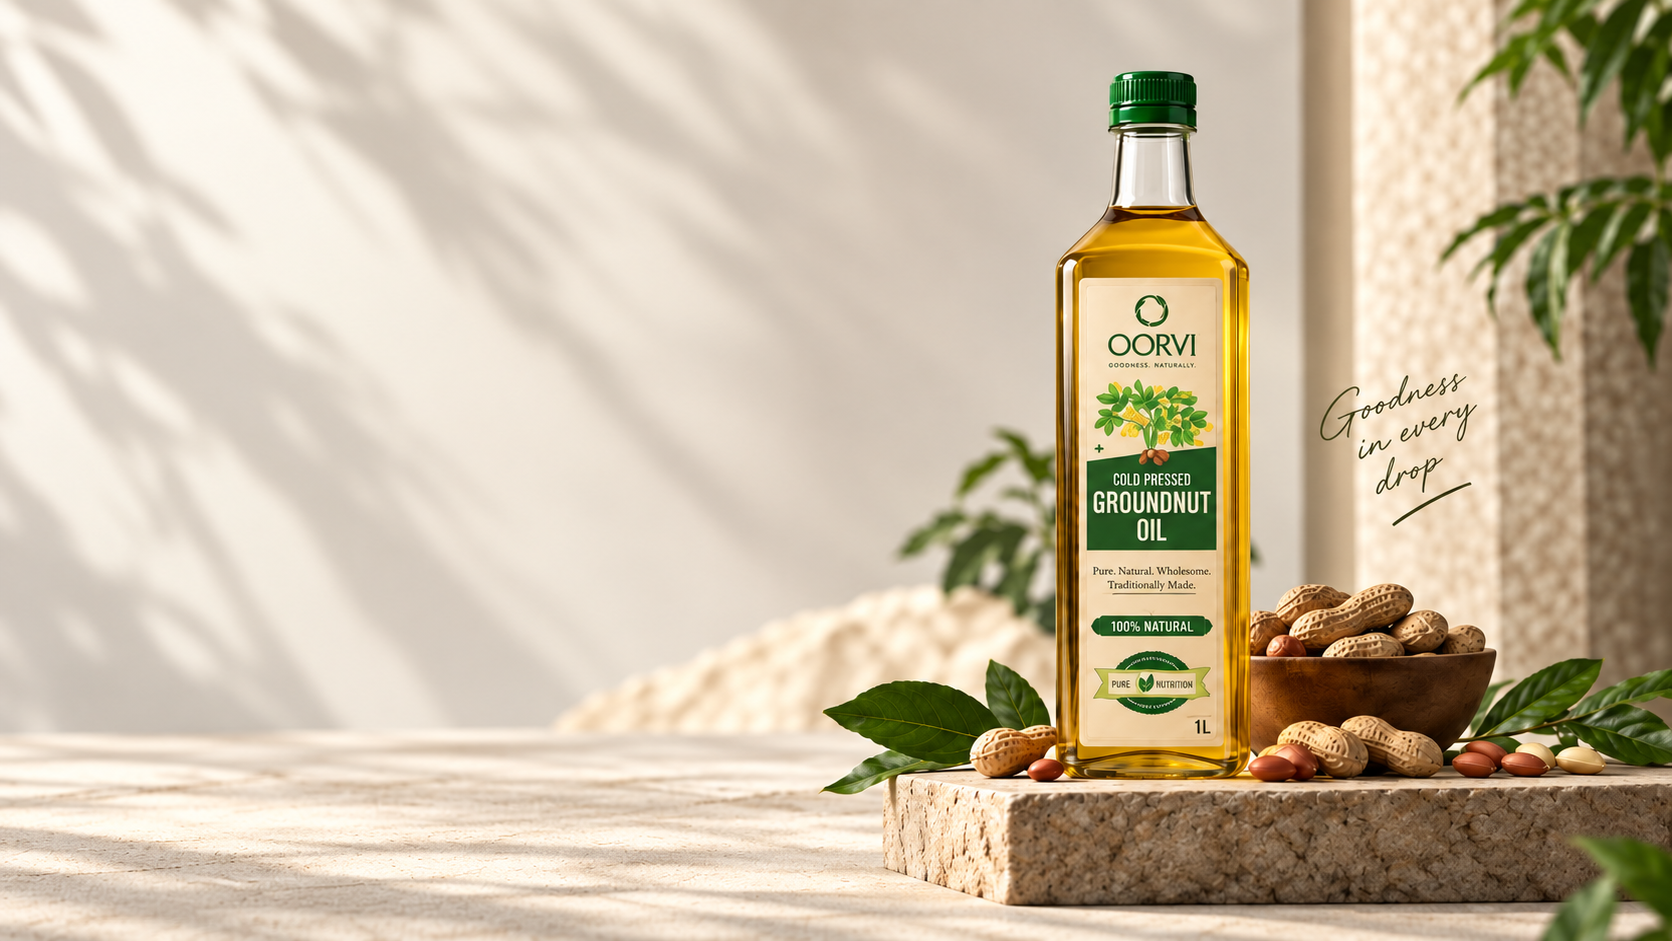
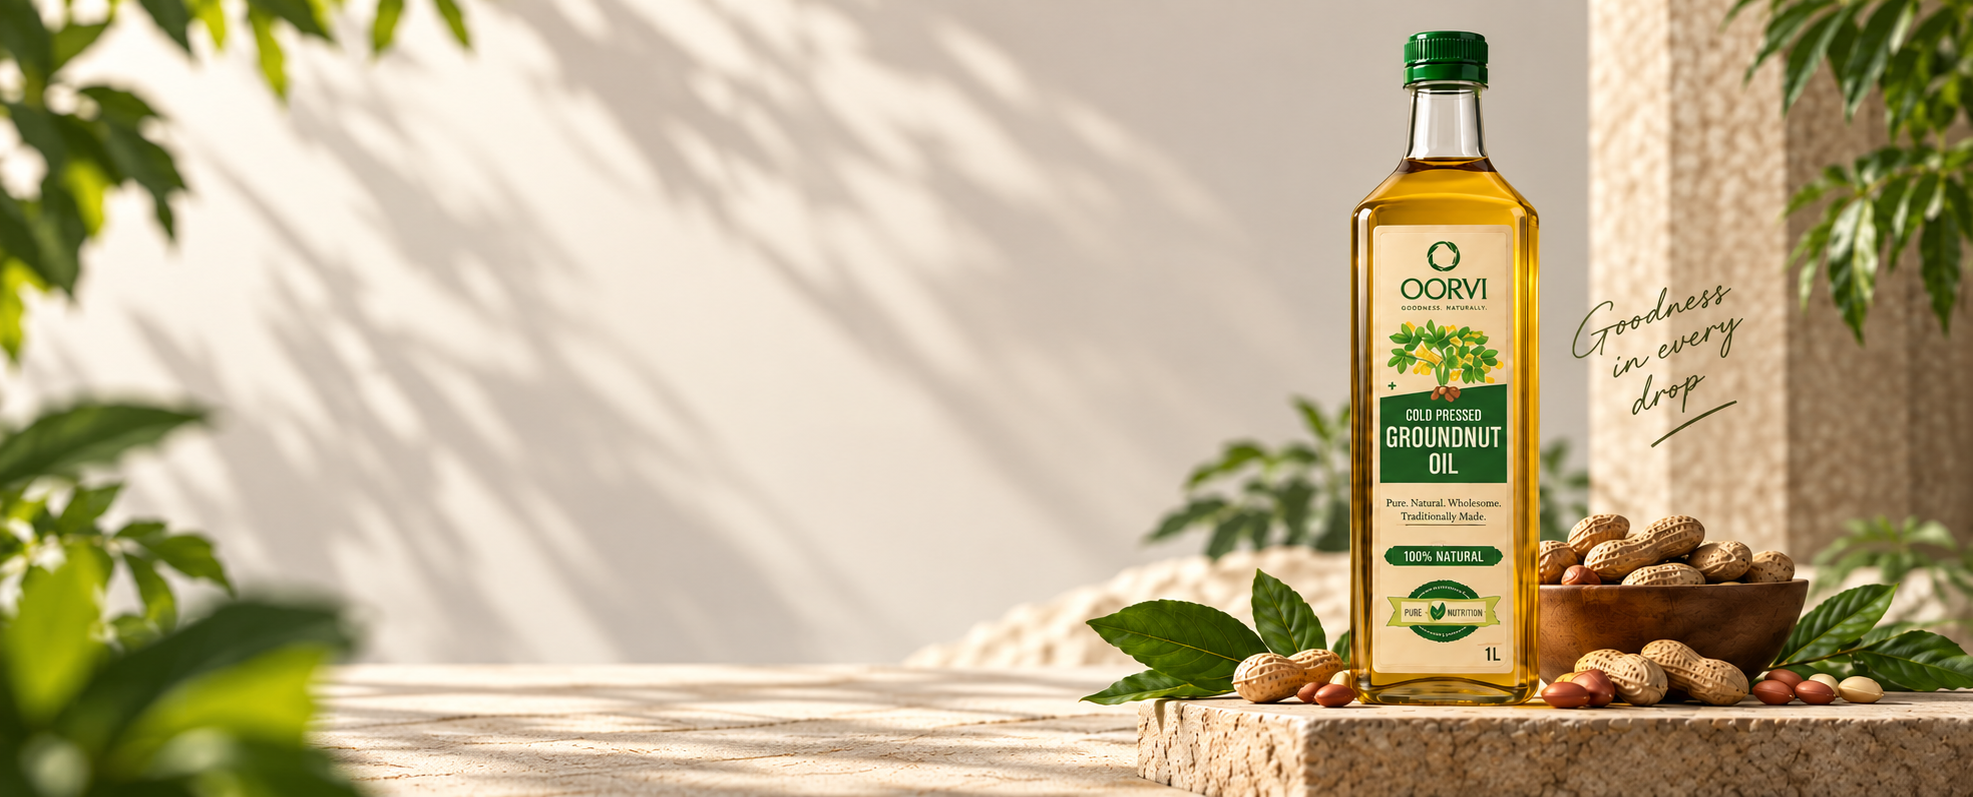
Swap in correctly-cropped hero photo, restore legibility gradient
New hero image is pre-cropped to a 2.5:1 wide banner with the bottle
composed in the right ~40%, matching the reference exactly at
background-size: cover. Re-added a left-side gradient overlay since
the raw photo's leaf-shadow pattern was washing out the paragraph text
and feature labels.

diff --git a/preview.html b/preview.html
@@ -68,7 +68,7 @@
 <div class="font-sans antialiased text-brand-textDark selection:bg-brand-olive selection:text-white">
 
   <section class="w-full px-6 md:px-12 pt-8 pb-20 grid grid-cols-1 lg:grid-cols-12 gap-12 lg:gap-6 items-center relative rounded-b-[2.5rem] lg:rounded-b-[4rem] overflow-hidden bg-brand-bg"
-    style="background-image: url('/assets/hero-groundnut-lifestyle.png'); background-repeat: no-repeat; background-position: right center; background-size: cover;">
+    style="background-image: linear-gradient(100deg, rgba(244,241,234,0.9) 0%, rgba(244,241,234,0.65) 32%, rgba(244,241,234,0.2) 52%, rgba(244,241,234,0) 68%), url('/assets/hero-groundnut-lifestyle.png'); background-repeat: no-repeat; background-position: right center; background-size: cover;">
 
     <div class="lg:col-span-7 flex flex-col justify-center relative z-10">
       <p class="text-xs font-semibold tracking-[0.2em] text-brand-textLight uppercase mb-6">Traditional Foods For A Brighter Tomorrow</p>
